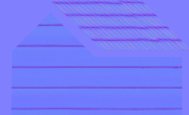
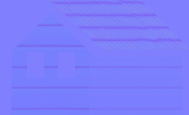
Scene2 updated!

diff --git a/LightSimulator2D/src/scene/DemoScene.cpp b/LightSimulator2D/src/scene/DemoScene.cpp
@@ -104,12 +104,17 @@ static void Scene2(Scene* scene, PlayerControllerComponent* controller)
     bg->GetDrawFlags().background = true;
     bg->GetBackgroundProperties().textureScale = 2.0f;
 
-    Entity* emitter = new Entity{ P("bg_diffuse.png"), P("bg_normal.png") };
+    Entity* emitter = new Entity{ P("bg_diffuse.png") };
     emitter->AddComponent(new FollowMouseComponent());
     emitter->AddComponent(controller);
     emitter->GetDrawFlags().emitter = true;
     emitter->GetEmissionProperties().color = Vec3(1.0, 1.0, 0.0);
     emitter->GetEmissionProperties().radius = 0.15f;
+
+    Entity* torchEmitter = new Entity{ P("bg_diffuse.png") };
+    torchEmitter->GetDrawFlags().emitter = true;
+    torchEmitter->GetEmissionProperties().color = Vec3(0.62, 0.51, 0.0);
+    torchEmitter->GetEmissionProperties().radius = 0.15f;
 
     Entity* tree1_up = new Entity{ P("tree1/tree1_up.png") };
     tree1_up->GetDrawFlags().foreground = true;
@@ -126,6 +131,13 @@ static void Scene2(Scene* scene, PlayerControllerComponent* controller)
     tree2_down->GetOcclusionProperties().shape = OccluderShape::Rect;
 
     Entity* bush = new Entity{ P("bush_diffuse.png") };
+    
+    Entity* fence = new Entity{ P("fence.png") };
+    fence->GetDrawFlags().foreground = true;
+
+    Entity* fenceOccluder = new Entity{ P("fence.png") };
+    fenceOccluder->GetDrawFlags().occluder = true;
+    fenceOccluder->GetOcclusionProperties().shape = OccluderShape::Rect;
 
     Entity* house = new Entity{ P("house/house_diffuse.png"),P("house/house_normal.png") };
     house->GetDrawFlags().occluder = true;
@@ -136,18 +148,23 @@ static void Scene2(Scene* scene, PlayerControllerComponent* controller)
 
     scene->AddEntity(bg);
     scene->AddEntity(emitter);
+    scene->AddEntity(torchEmitter);
     scene->AddEntity(tree1_up);
     scene->AddEntity(tree1_down);
     scene->AddEntity(tree2_up);
     scene->AddEntity(tree2_down);
     scene->AddEntity(bush);
     scene->AddEntity(house);
+    scene->AddEntity(fence);
+    scene->AddEntity(fenceOccluder);
 
     // Instances
     const Vec2 tree1Offset = Vec2(0.01, -0.2);
     const Vec2 tree2Offset = Vec2(0.0, -0.27);
+    const Vec2 torchOffest = Vec2(-0.27, 0.0);
     const unsigned numBushes = 100;
-    const Vec2 numTrees = VEC2_ONE * 8.0f;
+    const Vec2 numTrees = VEC2_ONE * 20.0f;
+    const Vec2 treeArea = numTrees / 2.0f;
 
     bg->Instance();
     emitter->Instance()->ApplyScale(0.01f);
@@ -155,7 +172,9 @@ static void Scene2(Scene* scene, PlayerControllerComponent* controller)
 
     for (unsigned i = 0; i < numBushes; i++)
     {
-        bush->Instance()->SetPosition(RandPos(-2.0f,2.0f));
+        const Vec2 tah = treeArea / (VEC2_ONE * 2.0f);
+        Vec2 pos = Vec2(RandFloat(-tah.x, tah.x), RandFloat(-tah.y, tah.y));
+        bush->Instance()->SetPosition(pos);
     }
 
     for (unsigned i = 0; i < (unsigned) numTrees.x; i++)
@@ -163,12 +182,13 @@ static void Scene2(Scene* scene, PlayerControllerComponent* controller)
         for (unsigned j = 0; j < (unsigned)numTrees.y; j++)
         {
             const Vec2 nth = numTrees / 2.0f; // Num trees half
+            const Vec2 gapSize = VEC2_ONE * 3.0f;
 
-            if ((i < nth.x + 1 && i > nth.x - 1) && (j < nth.y + 2 && j > nth.y - 2)) continue;
+            if ((i < nth.x + gapSize.x && i > nth.x - gapSize.x) && (j < nth.y + gapSize.y && j > nth.y - gapSize.y)) continue;
 
             const float randVar = 0.1f;
-            const Vec2 treeStep = 4.0f / numTrees;
-            Vec2 treePos = Vec2(i, j) * treeStep - 2.0f;
+            const Vec2 treeStep = treeArea / numTrees;
+            Vec2 treePos = Vec2(i, j) * treeStep - treeArea/2.0f;
             treePos += Vec2(RandFloat(-randVar, randVar), RandFloat(-randVar, randVar));
             float treeDecider = RandFloat(0.0f, 1.0f);
 
@@ -183,8 +203,44 @@ static void Scene2(Scene* scene, PlayerControllerComponent* controller)
                 tree2_down->Instance()->SetPosition(treePos + tree2Offset);
             }
 
+            if (i % 4 == 0 && j % 4 == 2)
+            {
+                EntityInstance* ei = torchEmitter->Instance();
+                ei->SetPosition(treePos + torchOffest);
+                ei->ApplyScale(0.01f);
+            }
+        
         }
     }
 
+    constexpr float PI = 3.1415f;
+    constexpr unsigned numFences = 10;
+    constexpr Vec2 fenceSize = Vec2(0.15f,0.2f);
+    constexpr Vec2 halfSide = fenceSize * (float)numFences / 2.0f;
+    constexpr Vec2 startPositions[] = { Vec2(-1.0f,-1.0f), Vec2(-1.0f,1.0f), Vec2(-1.0f,-1.0f), Vec2(1.0f,-1.0f) };
+    constexpr Vec2 increments[] = { Vec2(1.0f,0.0f), Vec2(1.0f,0.0f), Vec2(0.0f,1.0f), Vec2(0.0f,1.0f)};
+    constexpr float rotations[] = { 0.0f,0.0f,PI / 2.0f,PI / 2.0f };
+    constexpr Vec2 scales[] = {VEC2_ONE, VEC2_ONE, Vec2(0.8,1.0), Vec2(0.8,1.0) };
+    for (unsigned side = 0; side < 4; side++)
+    {
+        for (unsigned i = 1; i < numFences; i++)
+        {
+            Vec2 fencePos = startPositions[side]*halfSide + (float) i * increments[side] * fenceSize;
+            EntityInstance* ei = fence->Instance();
+            ei->SetPosition(fencePos);
+            ei->ApplyRotation(rotations[side]);
+            ei->ApplyScale(scales[side]);
 
+            Vec2 occluderOffset = side >= 2 ? Vec2(0.04,0.08) : Vec2(0.04, 0.04);
+            EntityInstance* o1 = fenceOccluder->Instance();
+            o1->SetPosition(fencePos + occluderOffset * scales[side]);
+            o1->ApplyRotation(rotations[side]);
+            o1->ApplyScale(0.1f);
+
+            EntityInstance* o2 = fenceOccluder->Instance();
+            o2->SetPosition(fencePos + occluderOffset * Vec2(1.0f,-1.0f) * scales[side]);
+            o2->ApplyScale(0.1f);
+            o2->ApplyRotation(rotations[side]);
+        }
+    }
 }

diff --git a/LightSimulator2D/src/gfx/SceneCuller.cpp b/LightSimulator2D/src/gfx/SceneCuller.cpp
@@ -11,14 +11,19 @@ inline static bool InRect(Vec2 x, Vec2 a, Vec2 b)
 
 inline static bool ShouldBeCulled(const Mat3& transformation, const Mat3& cameraTransform, float occlusionFactor)
 {
-    static const Vec4 screenQuad = { -1.0,-1.0,1.0,1.0 };
+    constexpr Vec4 screenQuad = { -1.0,-1.0,1.0,1.0 };
     const Vec3 zoneA = (Vec3(screenQuad.x, screenQuad.y,1.0/occlusionFactor) * occlusionFactor) * cameraTransform;
     const Vec3 zoneB = (Vec3(screenQuad.z, screenQuad.w,1.0/occlusionFactor) * occlusionFactor) * cameraTransform;
     const Vec3 instanceA = Vec3(screenQuad.x, screenQuad.y, 1.0) * transformation;
     const Vec3 instanceB = Vec3(screenQuad.z, screenQuad.w, 1.0) * transformation;
 
-    return instanceA.x >= zoneB.x || zoneA.x >= instanceB.x 
-        || instanceA.y >= zoneB.y || zoneA.y >= instanceB.y;
+    const float minX = MIN(instanceA.x, instanceB.x);
+    const float minY = MIN(instanceA.y, instanceB.y);
+    const float maxX = MAX(instanceA.x, instanceB.x);
+    const float maxY = MAX(instanceA.y, instanceB.y);
+
+    return minX >= zoneB.x || zoneA.x >= maxX 
+        || minY >= zoneB.y || zoneA.y >= maxY;
 }
 
 inline static float GetSpecificOcclusionFactor(DrawFlags df)

diff --git a/LightSimulator2D/src/ui/elements/ProfilerUI.cpp b/LightSimulator2D/src/ui/elements/ProfilerUI.cpp
@@ -85,11 +85,16 @@ void ProfilerUI::UpdateInternal()
 void ProfilerUI::Render()
 {
 	IM_BEGIN("Profiler");
+#ifdef DEBUG
 	ImGui::Checkbox("Sort by name:", &m_SortByNameCB);
+#endif
 	ImGui::Text(("FPS: " + FToS(m_CurrentFPS)).c_str());
+
+#ifdef DEBUG // TODO: Hide diagrams until is fixed bug with release
 	for (ProfilerDiagram* d : m_Diagrams)
 	{
 		d->Render();
 	}
+#endif
 	IM_END();
 }
